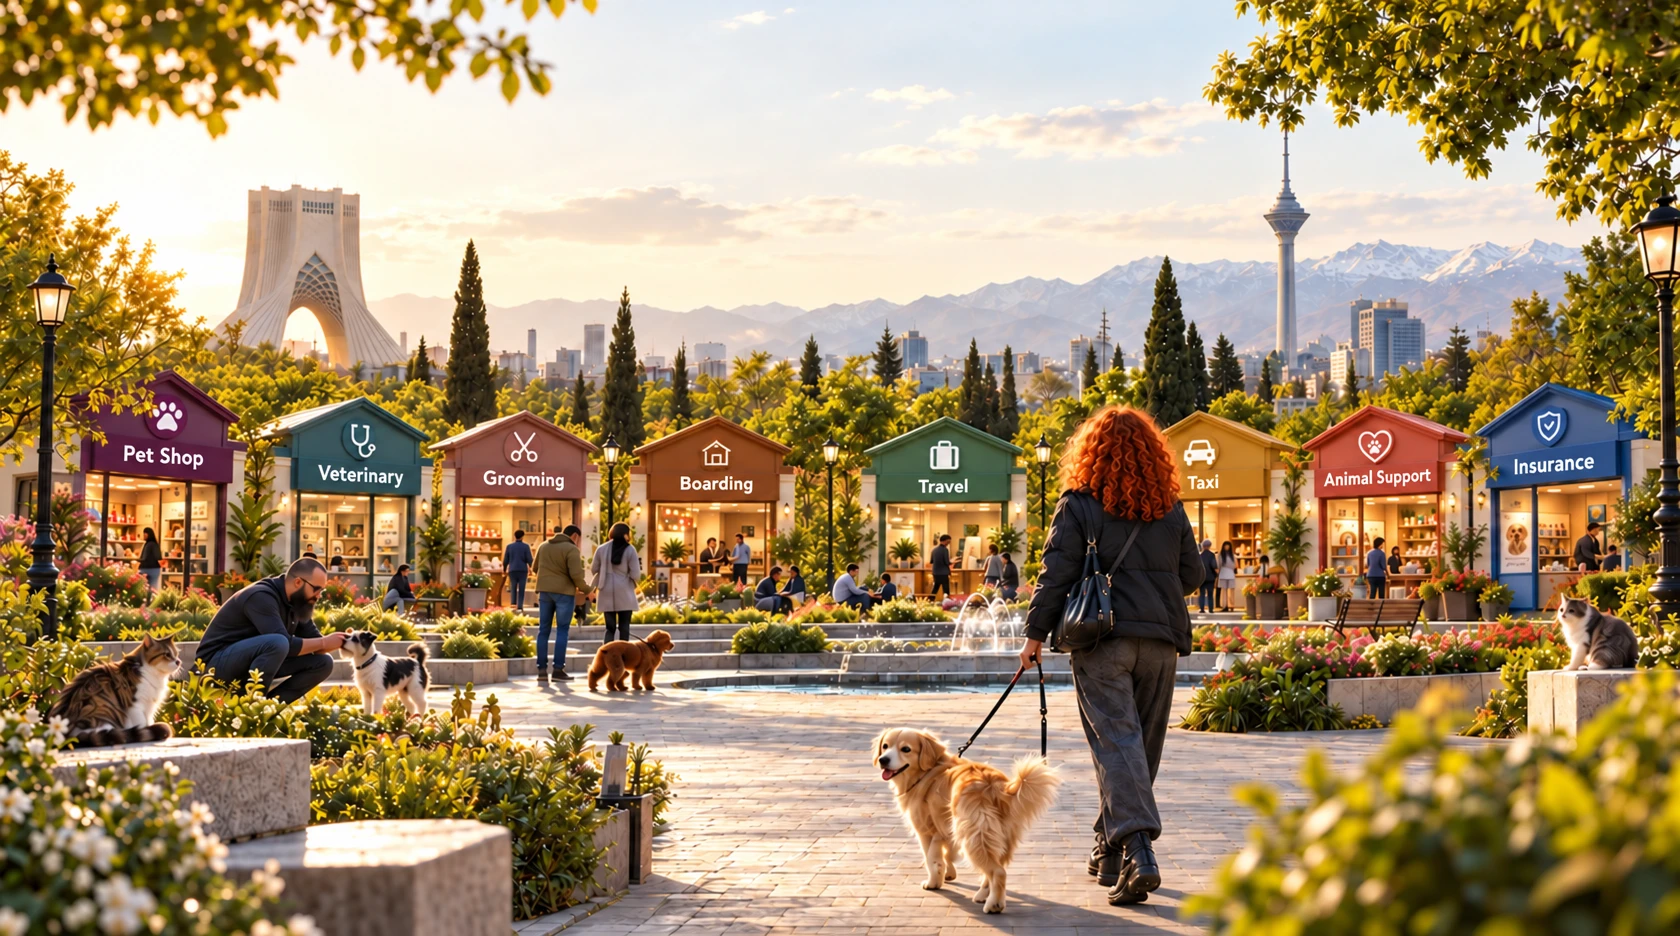
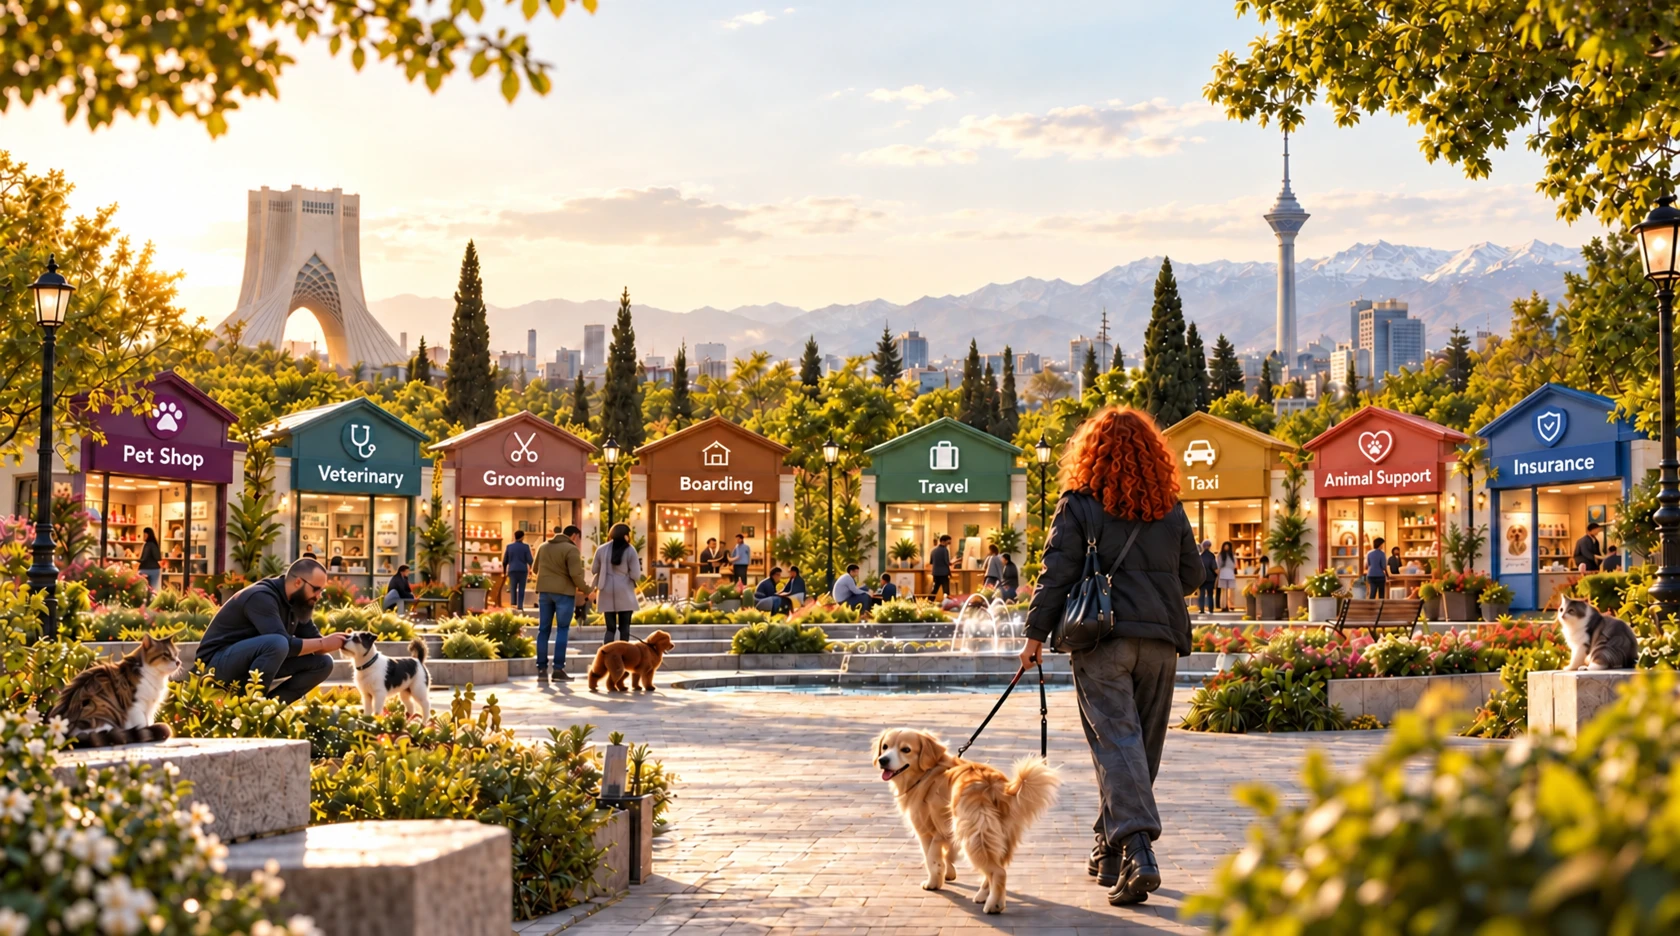
feat(web): apply selected buttons and illuminate park pavilions

diff --git a/apps/web/features/landing/park-landing.css b/apps/web/features/landing/park-landing.css
@@ -31,12 +31,22 @@
 [lang="en"] .park-hero__copy h1 { font-size:clamp(26px,3.2vw,50px); line-height:1.3; margin-bottom:12px; }
 .park-hero__description { margin:0; font-size:clamp(14px,1.35vw,22px); line-height:1.7; font-weight:700; }
 .park-hero__subline { margin:5px 0 0; font-size:clamp(12px,1.05vw,16px); line-height:1.8; }
-.park-primary { display:inline-flex; justify-content:center; align-items:center; gap:12px; min-height:48px; padding:10px 34px; margin-top:18px; background:var(--campaign-plum); color:var(--campaign-inverse); border:1px solid var(--campaign-plum-strong); border-radius:999px; text-decoration:none; font-weight:750; font-size:15px; transition:background-color 160ms; }
-.park-primary:hover { background:var(--campaign-plum-strong); }
-.park-pavilion { position:absolute; height:17%; transform:translate(-50%,-25%); border-radius:12px; text-decoration:none; outline-offset:2px; }
+.park-primary { display:inline-flex; justify-content:center; align-items:center; gap:28px; min-height:54px; padding:12px 28px; margin-top:18px; background:var(--campaign-plum); color:var(--campaign-inverse); border:1px solid var(--campaign-plum-strong); border-radius:6px; text-decoration:none; font-weight:750; font-size:15px; transition:background-color 160ms,box-shadow 160ms; }
+.park-primary:hover { background:var(--campaign-plum-strong); box-shadow:inset 0 -3px var(--campaign-copper); }
+.park-primary svg,.park-secondary svg,.park-text-link svg,.park-moments__grid a svg { flex-shrink:0; transition:transform 160ms; }
+.park-primary:hover svg,.park-secondary:hover svg,.park-text-link:hover svg,.park-moments__grid a:hover svg { transform:translateX(3px); }
+[dir="rtl"] .park-primary:hover svg,[dir="rtl"] .park-secondary:hover svg,[dir="rtl"] .park-text-link:hover svg,[dir="rtl"] .park-moments__grid a:hover svg { transform:translateX(-3px); }
+.park-primary:active { background:var(--campaign-plum-strong); box-shadow:inset 0 -2px var(--campaign-copper); }
+.park-pavilions { position:absolute; inset:0; pointer-events:none; }
+.park-pavilion { pointer-events:auto; position:absolute; height:17%; transform:translate(-50%,-25%); border-radius:12px; text-decoration:none; outline-offset:2px; }
 .park-pavilion span { position:absolute; top:-26px; left:50%; transform:translateX(-50%); padding:6px 12px; background:var(--campaign-paper); color:var(--campaign-ink); border:1px solid var(--campaign-line); border-radius:7px; white-space:nowrap; font-size:13px; font-weight:700; opacity:0; transition:opacity 160ms; }
-.park-pavilion:hover,.park-pavilion:focus-visible { outline:3px solid var(--campaign-inverse); background:color-mix(in srgb,var(--tone) 13%,transparent); }
+.park-pavilion:focus-visible { outline:3px solid var(--campaign-inverse); }
 .park-pavilion:hover span,.park-pavilion:focus-visible span { opacity:1; }
+.park-pavilion__light { position:absolute; left:50%; width:24%; height:auto; transform:translate(-50%,-50%); color:var(--campaign-inverse); opacity:0; pointer-events:none; filter:drop-shadow(0 0 5px var(--tone)) drop-shadow(0 0 10px var(--campaign-gold)); }
+.park-pavilions[data-intro="true"] .park-pavilion__light { animation:park-light-welcome 1100ms ease-out both; animation-delay:var(--park-light-delay,0ms); }
+.park-pavilion:hover .park-pavilion__light,.park-pavilion:focus-visible .park-pavilion__light { opacity:1; animation:park-light-pulse 1800ms ease-in-out infinite; }
+@keyframes park-light-welcome { 0%,100% { opacity:0; } 40%,65% { opacity:1; } }
+@keyframes park-light-pulse { 0%,100% { opacity:.45; } 50% { opacity:1; } }
 .park-intro { padding:28px clamp(20px,4vw,56px) 32px; text-align:center; scroll-margin-top:20px; }
 .park-intro h2 { margin:0; font-size:clamp(26px,2.5vw,38px); line-height:1.65; font-weight:850; letter-spacing:-.025em; }
 .park-intro>p { margin:12px auto 24px; max-width:740px; color:var(--campaign-text); font-size:15px; line-height:1.9; }
@@ -75,7 +85,7 @@
   .park-partner-links { display:none; }
   .park-menu-toggle { display:flex; }
   .park-hero__copy { top:18px; }
-  .park-primary { margin-top:12px; min-height:42px; padding:8px 26px; font-size:14px; }
+  .park-primary { margin-top:12px; min-height:48px; padding:8px 26px; font-size:14px; }
   .park-services { grid-template-columns:repeat(4,minmax(0,1fr)); row-gap:26px; }
   .park-service:nth-child(4n) { border-inline-end:0; }
   .park-landing .hl-cards { grid-template-columns:repeat(2,minmax(0,1fr)); }
@@ -99,7 +109,7 @@
   [lang="en"] .park-hero__copy h1 { font-size:30px; }
   .park-hero__description { font-size:14px; line-height:1.9; margin-top:3px; }
   .park-hero__subline { font-size:12px; margin-top:5px; }
-  .park-primary { margin-top:17px; min-height:46px; padding-inline:28px; }
+  .park-primary { margin-top:17px; min-height:48px; padding-inline:28px; }
   .park-scene__image { width:100%; height:385px; object-fit:cover; object-position:64% 100%; }
   .park-pavilions { display:none; }
   .park-intro { padding:24px 16px 30px; }
@@ -119,3 +129,8 @@
 .park-landing .hl-split,[dir="ltr"] .park-landing .hl-split { background:var(--campaign-plum); }
 .park-landing .hl-footer__legal { border-color:color-mix(in srgb,var(--campaign-inverse) 25%,transparent); }
 .park-landing .hl-footer__demo { color:color-mix(in srgb,var(--campaign-inverse) 80%,transparent); }
+
+@media (prefers-reduced-motion:reduce) {
+  .park-pavilions[data-intro="true"] .park-pavilion__light { animation:none; }
+  .park-pavilion:hover .park-pavilion__light,.park-pavilion:focus-visible .park-pavilion__light { animation:none; opacity:1; }
+}

diff --git a/apps/web/features/landing/park-story.css b/apps/web/features/landing/park-story.css
@@ -23,7 +23,7 @@
 .park-moments__grid img { width:100%; height:280px; object-fit:cover; border-radius:20px; }
 .park-moments__grid article>p { font-size:14px; min-height:85px; }
 .park-moments__grid a,.park-text-link { display:inline-flex; align-items:center; gap:10px; color:var(--campaign-plum); font-weight:750; font-size:14px; text-decoration:none; min-height:44px; }
-.park-moments__grid a:hover,.park-text-link:hover { text-decoration:underline; text-underline-offset:5px; }
+.park-moments__grid a:hover,.park-text-link:hover { color:var(--campaign-copper); text-decoration:underline; text-underline-offset:6px; }
 .park-trust { background:var(--campaign-teal-tint); padding:64px 32px; }
 .park-trust__grid { max-width:1136px; margin:auto; display:grid; grid-template-columns:repeat(3,minmax(0,1fr)); gap:45px; }
 .park-trust__grid article>svg { color:var(--campaign-teal); }
@@ -36,8 +36,8 @@
 .park-partners h2 { margin:0; }
 .park-story__actions { display:flex; justify-content:center; flex-wrap:wrap; align-items:center; gap:14px; margin-top:24px; }
 .park-story__actions .park-primary { margin-top:0; }
-.park-secondary { display:inline-flex; align-items:center; justify-content:center; min-height:48px; border:1px solid var(--campaign-plum); padding:10px 28px; border-radius:999px; color:var(--campaign-plum); text-decoration:none; font-weight:750; font-size:14px; }
-.park-secondary:hover { background:var(--campaign-plum-tint); }
+.park-secondary { display:inline-flex; align-items:center; justify-content:center; gap:20px; min-height:48px; padding:10px 4px; color:var(--campaign-plum); text-decoration:underline; text-decoration-thickness:1px; text-underline-offset:8px; font-weight:750; font-size:14px; transition:color 160ms; }
+.park-secondary:hover { color:var(--campaign-copper); text-decoration-thickness:2px; }
 .park-final { text-align:center; padding:76px 24px 84px; background:var(--campaign-cream); }
 .park-final>svg { color:var(--campaign-plum); margin:0 auto 18px; }
 .park-final p { color:var(--campaign-text); line-height:1.8; font-size:15px; margin:14px 0 0; }
@@ -83,3 +83,9 @@
 .park-identity__app { height:auto; margin:0; background:var(--campaign-paper); }
 .park-identity__app img { display:block; width:100%; height:auto; border-radius:16px; }
 .park-identity__app figcaption { padding:7px 2px 3px; font-size:9px; line-height:1.6; color:var(--campaign-text); text-align:center; }
+
+@media (prefers-reduced-motion:reduce) {
+  .park-primary,.park-secondary,.park-primary svg,.park-secondary svg,.park-text-link svg,.park-moments__grid a svg { transition:none; }
+  .park-primary:hover svg,.park-secondary:hover svg,.park-text-link:hover svg,.park-moments__grid a:hover svg,
+  [dir="rtl"] .park-primary:hover svg,[dir="rtl"] .park-secondary:hover svg,[dir="rtl"] .park-text-link:hover svg,[dir="rtl"] .park-moments__grid a:hover svg { transform:none; }
+}

diff --git a/apps/web/features/landing/HomeLanding.tsx b/apps/web/features/landing/HomeLanding.tsx
@@ -62,18 +62,18 @@ export function HomeLanding({ locale }: { locale: AppLocale }) {
         <Image unoptimized src={photo("community")} alt="" width={900} height={680} loading="lazy" />
         <div className="park-story__copy"><p className="park-eyebrow">{c.supportEyebrow}</p><h2 id="park-support-title">{c.supportTitle}</h2><p>{c.supportBody}</p>
           <Link className="park-primary" href={href("/animal-support/needs")}>{c.supportCta}<Arrow size={18} aria-hidden="true" /></Link>
-          <Link className="park-text-link" href={href("/community")}>{c.communityCta}</Link>
+          <Link className="park-text-link" href={href("/community")}>{c.communityCta}<Arrow size={18} aria-hidden="true" /></Link>
         </div>
       </section>
       <section id="park-partners" className="park-partners" aria-labelledby="park-partners-title">
         <p className="park-eyebrow">{c.partnerEyebrow}</p><h2 id="park-partners-title">{c.partnerTitle}</h2><p>{c.partnerBody}</p>
         <div className="park-story__actions">
-          <Link href={`${href("/auth")}?returnTo=${encodeURIComponent(href("/provider"))}`} className="park-primary">{c.partnerLogin}</Link>
-          <Link href={`${href("/register")}?returnTo=${encodeURIComponent(href("/provider"))}`} className="park-secondary">{c.partnerJoin}</Link>
+          <Link href={`${href("/auth")}?returnTo=${encodeURIComponent(href("/provider"))}`} className="park-primary">{c.partnerLogin}<Arrow size={18} aria-hidden="true" /></Link>
+          <Link href={`${href("/register")}?returnTo=${encodeURIComponent(href("/provider"))}`} className="park-secondary">{c.partnerJoin}<Arrow size={18} aria-hidden="true" /></Link>
         </div>
       </section>
       <section className="park-final" aria-labelledby="park-final-title"><PawPrint size={34} aria-hidden="true" /><h2 id="park-final-title">{c.finalTitle}</h2><p>{c.finalBody}</p>
-        <div className="park-story__actions"><Link className="park-primary" href={href("/register")}>{c.join}</Link><Link className="park-secondary" href={href("/auth")}>{c.login}</Link></div>
+        <div className="park-story__actions"><Link className="park-primary" href={href("/register")}>{c.join}<Arrow size={18} aria-hidden="true" /></Link><Link className="park-secondary" href={href("/auth")}>{c.login}<Arrow size={18} aria-hidden="true" /></Link></div>
       </section>
     </main>
     <ParkFooter locale={locale} />

diff --git a/apps/web/features/landing/ParkPavilions.tsx b/apps/web/features/landing/ParkPavilions.tsx
@@ -1,0 +1,38 @@
+"use client";
+
+import { useEffect, useRef, useState, type CSSProperties } from "react";
+import Link from "next/link";
+import { PawPrint, Stethoscope, Scissors, House, Plane, CarFront, HandHeart, ShieldCheck } from "@petlife/ui";
+import type { AppLocale } from "@/lib/i18n/config";
+import { parkCopy, parkDestinations } from "./park-copy";
+
+const icons = { shop: PawPrint, vet: Stethoscope, grooming: Scissors, boarding: House, travel: Plane, taxi: CarFront, support: HandHeart, insurance: ShieldCheck };
+// Physical sign icon centers, as percentages of the existing pavilion hit region.
+const iconTop = { shop: 12, vet: 20, grooming: 14, boarding: 17, travel: 18, taxi: 20, support: 21, insurance: 13 };
+
+export function ParkPavilions({ locale }: { locale: AppLocale }) {
+  const ref = useRef<HTMLElement>(null);
+  const [intro, setIntro] = useState(false);
+  const c = parkCopy[locale];
+  useEffect(() => {
+    if (!ref.current || typeof IntersectionObserver === "undefined" || window.matchMedia("(prefers-reduced-motion: reduce)").matches) return;
+    let timer: ReturnType<typeof setTimeout> | undefined;
+    const observer = new IntersectionObserver(entries => {
+      if (!entries.some(entry => entry.isIntersecting)) return;
+      setIntro(true);
+      timer = setTimeout(() => setIntro(false), 2600);
+      observer.disconnect();
+    }, { threshold: 0.35 });
+    observer.observe(ref.current);
+    return () => { observer.disconnect(); clearTimeout(timer); };
+  }, []);
+  return <nav ref={ref} className="park-pavilions" data-intro={intro} aria-label={c.destinationsLabel}>
+    {parkDestinations.map((destination, index) => {
+      const Icon = icons[destination.key];
+      return <Link key={destination.key} href={`/${locale}${destination.href}`} className={`park-pavilion park-tone-${destination.tone}`} style={{ left: `${destination.x}%`, top: `${destination.y}%`, width: `${destination.width}%` }} aria-label={c.services[destination.key].title}>
+        <Icon className="park-pavilion__light" aria-hidden="true" style={{ left: destination.key === "shop" ? "56%" : "50%", top: `${iconTop[destination.key]}%`, "--park-light-delay": `${index * 200}ms` } as CSSProperties} />
+        <span>{c.services[destination.key].title}</span>
+      </Link>;
+    })}
+  </nav>;
+}

diff --git a/apps/web/features/landing/ParkHero.tsx b/apps/web/features/landing/ParkHero.tsx
@@ -1,13 +1,15 @@
 import Link from "next/link";
 import Image from "next/image";
-import { PawPrint, ShoppingBag, Stethoscope, Scissors, House, Plane, CarFront, HandHeart, ShieldCheck } from "@petlife/ui";
+import { ArrowLeft, ArrowRight, ShoppingBag, Stethoscope, Scissors, House, Plane, CarFront, HandHeart, ShieldCheck } from "@petlife/ui";
 import type { AppLocale } from "@/lib/i18n/config";
+import { ParkPavilions } from "./ParkPavilions";
 import { parkCopy, parkDestinations } from "./park-copy";
 
 const icons = { shop: ShoppingBag, vet: Stethoscope, grooming: Scissors, boarding: House, travel: Plane, taxi: CarFront, support: HandHeart, insurance: ShieldCheck };
 
 export function ParkHero({ locale }: { locale: AppLocale }) {
   const c = parkCopy[locale];
+  const Arrow = locale === "fa" ? ArrowLeft : ArrowRight;
   return <>
     <section className="park-hero" aria-labelledby="park-title">
       <div className="park-scene">
@@ -16,13 +18,9 @@ export function ParkHero({ locale }: { locale: AppLocale }) {
           <h1 id="park-title">{c.title}</h1>
           <p className="park-hero__description">{c.description}</p>
           <p className="park-hero__subline">{c.subline}</p>
-          <a href={`/${locale}#park-services`} className="park-primary"><PawPrint size={19} aria-hidden="true" />{c.explore}</a>
+          <a href={`/${locale}#park-services`} className="park-primary">{c.explore}<Arrow size={20} aria-hidden="true" /></a>
         </div>
-        <nav className="park-pavilions" aria-label={c.destinationsLabel}>
-          {parkDestinations.map(destination => <Link key={destination.key} href={`/${locale}${destination.href}`} className={`park-pavilion park-tone-${destination.tone}`} style={{ left: `${destination.x}%`, top: `${destination.y}%`, width: `${destination.width}%` }} aria-label={c.services[destination.key].title}>
-            <span>{c.services[destination.key].title}</span>
-          </Link>)}
-        </nav>
+        <ParkPavilions locale={locale} />
       </div>
     </section>
     <section id="park-services" className="park-intro" aria-labelledby="park-intro-title">

diff --git a/apps/web/design-review/landing-buttons/README.md b/apps/web/design-review/landing-buttons/README.md
@@ -1,0 +1,22 @@
+# Landing button revision
+
+Owner selected the second displayed concept, the rectangular editorial direction. [Selected image](selected-option-2.webp). Existing palette, photos and navigation are preserved.
+
+Primary actions use 6px corners, a directional arrow, a copper lower rule on hover and a visible focus outline. Secondary actions are unboxed underlined links. Arrows reverse with locale and respect reduced motion; touch targets remain at least 48px high.
+
+Before: [Persian desktop](../landing-complete/signs-fa-1440.webp), [Persian mobile](../landing-complete/signs-fa-390.webp).
+After: [Persian desktop](hero-fa-1440.webp), [Persian mobile](hero-fa-390.webp), [partner desktop](partners-fa-1440.webp), [partner mobile](partners-fa-390.webp).
+
+طرح دوم انتخابشده روی دکمهها و لینکهای لندینگ پیاده شد.
+رنگهای فعلی، جهت فلش فارسی و انگلیسی و دسترسی با کیبورد حفظ شدهاند.
+تغییرات برای بررسی است؛ انتشار نیازمند CI و QA و تأیید مالک است.
+
+PR and board #4 update remain pending GitHub API access. Existing repository-wide Prisma typecheck blocker remains; no merge or deployment performed.
+
+## Hero interaction and reference correction
+
+Pavilion icons brighten with a gentle pulse on hover and keyboard focus. One brief staggered entrance sequence runs when the hero becomes visible; it does not capture scrolling. Reduced-motion users receive a steady highlight. Mobile retains the eight service shortcuts below the image.
+
+Both Persian and English park assets now show the rescued terrier beside Pedram with a short healed tail, visually approximating the owner's description (about 10cm); the golden dog's tail remains unchanged.
+
+Validation: repository lint passed with five existing warnings; final changed-file lint and web typecheck passed; two landing suites / 16 tests passed after adding the pavilion component. Repository-wide Prisma typecheck and GitHub API/board access remain blocked as previously documented.

diff --git a/apps/web/design-review/landing-buttons/design-qa.md b/apps/web/design-review/landing-buttons/design-qa.md
@@ -1,0 +1,11 @@
+# Selected button and hero revision QA
+
+final result: passed
+
+Compared selected-option-2.webp with the rendered hero and partner actions at Persian 1440px and 390px. Primary actions have the selected low-radius rectangle and directional arrow; secondary actions use the unboxed underline. Existing site typography and palette remain. Hover introduces the copper lower rule; keyboard focus remains visible.
+
+Browser checks passed for Persian and English at 390px and 1440px with no horizontal overflow. Explore scrolls to real services. Pavilion lights pulse on hover, highlight with keyboard focus, and run one staggered entrance without intercepting scrolling. Reduced motion disables pulsing and preserves a steady interactive highlight. Mobile uses the existing complete service shortcut list.
+
+Inspected the final Persian hover image and English/Persian updated park art: short healed terrier tail, original golden dog tail, and localized signs retained.
+
+Lint passed (five pre-existing warnings), final changed-file lint and web typecheck passed, 16 landing tests passed. These checks do not establish repository-wide CI readiness: existing Prisma typecheck and GitHub API access blockers remain. No merge or deployment.
